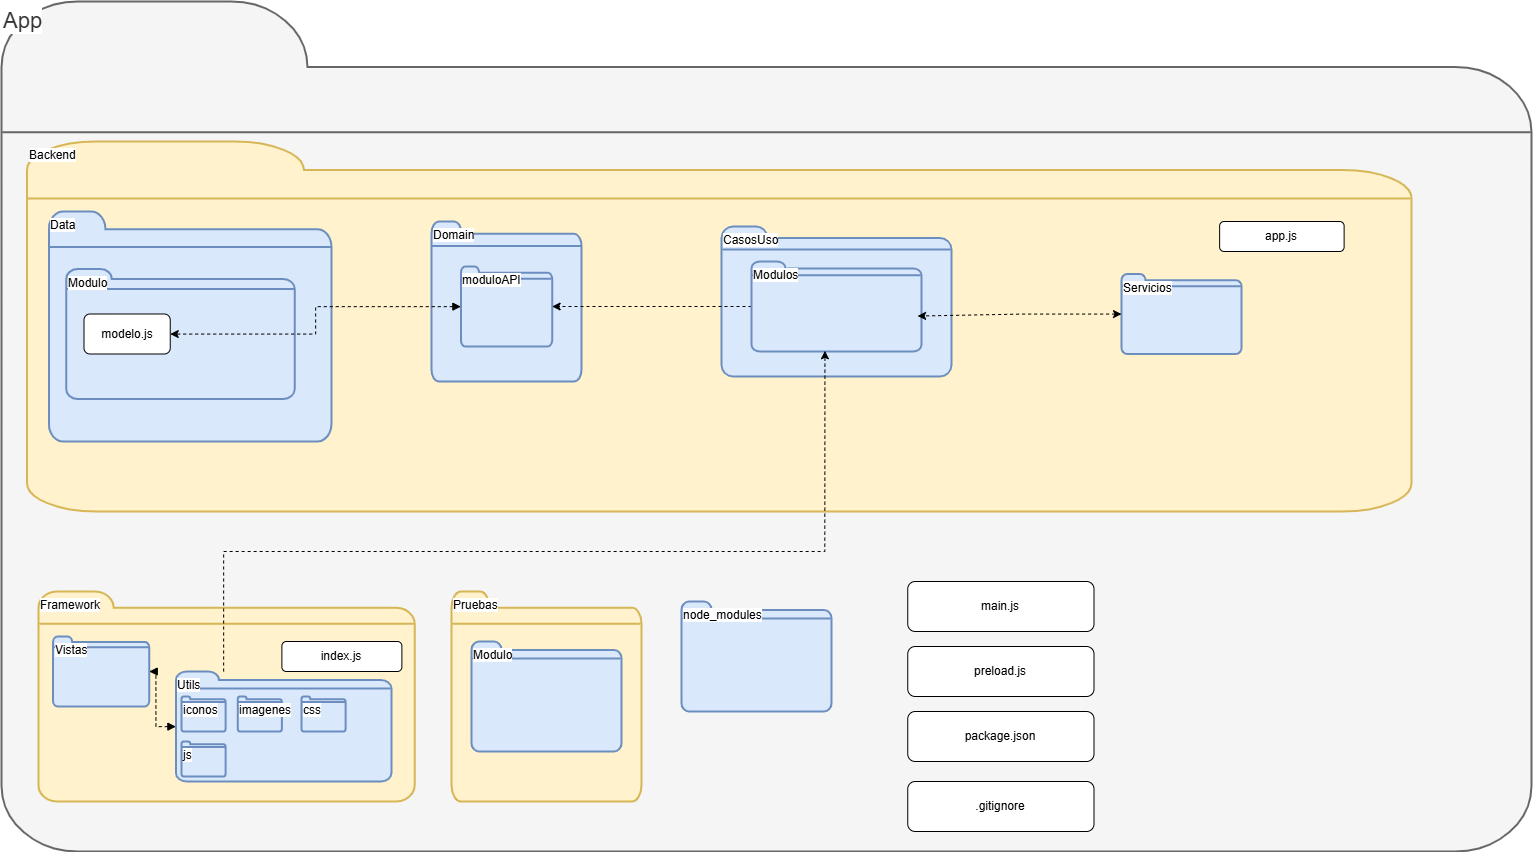
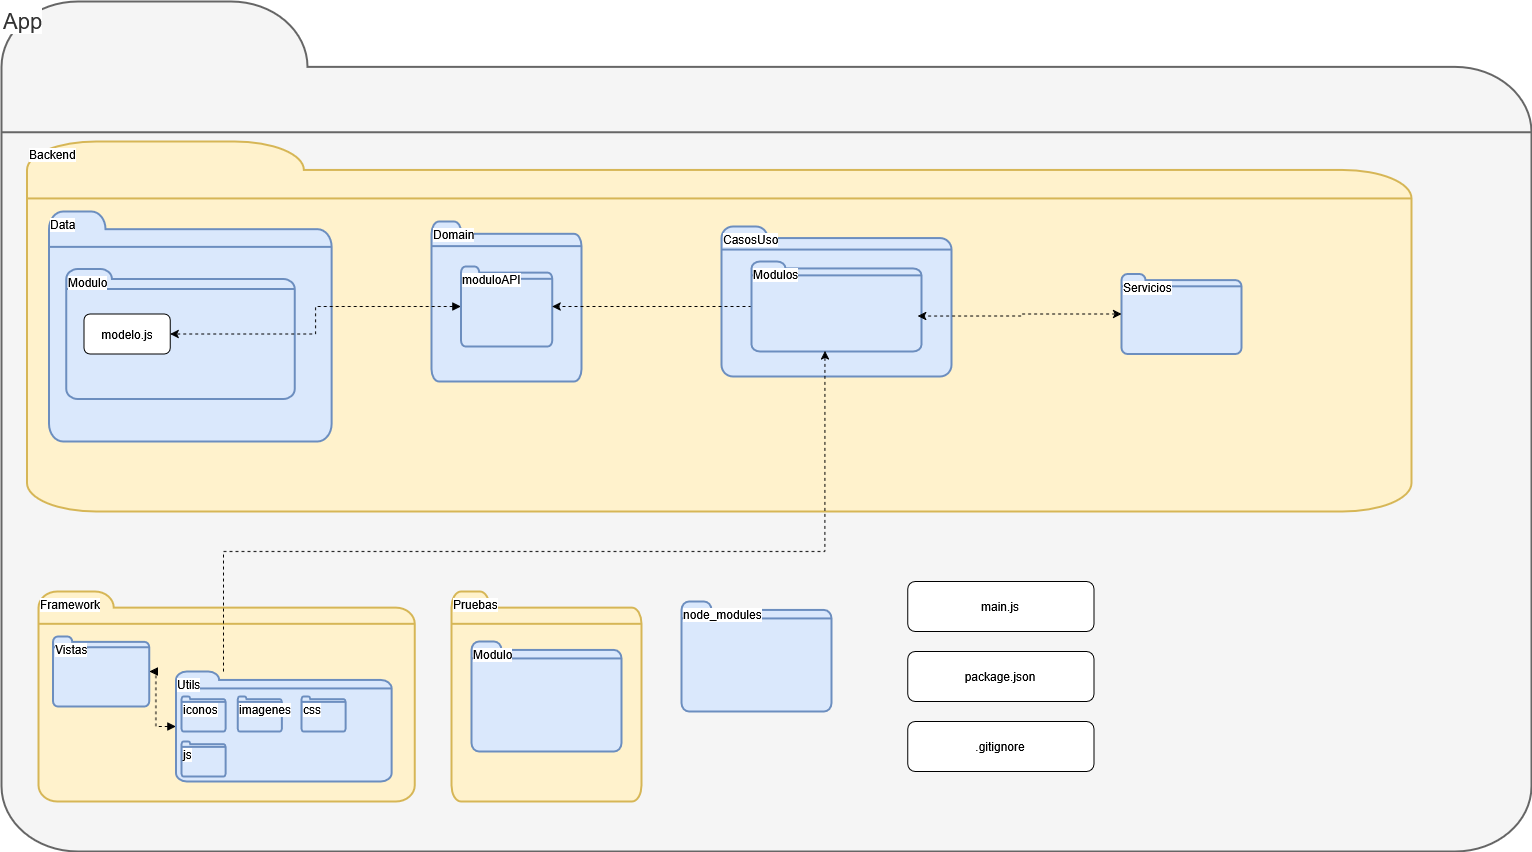
Correcciones de documentación

diff --git a/documentation/docs/proyectos/tractores/documentacion/estrategia.md b/documentation/docs/proyectos/tractores/documentacion/estrategia.md
@@ -63,7 +63,7 @@ Garantizar un software confiable a través de buenas prácticas de aseguramiento
 
 La estrategia que se seguirá para las pruebas será la siguiente:
 
-- **STP**: [Llenar la plantilla con el plan de pruebas de su proyecto]
+- **STP**: [Software Test Plan TracTech](/docs/proyectos/tractores/documentacion/stp)
 
 ---
 
@@ -136,9 +136,6 @@ Esta carpeta sigue una arquitectura basada en CLEAN.
 
 - **Servicios**: Que contendrán scripts y clases reutilizables a lo largo del proyecto
 
-- **Archivo principal**:
-
-  - **app.js**: Punto de entrada principal del backend. Su función es inicializar y configurar el servidor local de la aplicación.
 
 ### 2. Framework
 
@@ -146,8 +143,6 @@ Esta carpeta se encarga de la interfaz de usuario y la interacción con el usuar
 
 - **Vistas**: Son las interfaces que el usuario ve y con las que interactúa.
 - **Utils**: Funciones auxiliares para el comportamiento de las vistas.
-- **Archivo principal**:
-  - **index.js**: Punto de entrada de Electron.
 
 ### 3. Pruebas Unitarias
 
@@ -158,7 +153,6 @@ Cada módulo puede incluir pruebas unitarias para garantizar su correcto funcion
 Se encarga de la integración de la aplicación con ElectronJS
 
 - **main.js**: Archivo principal de Electron. Crea la ventana, gestiona eventos del sistema. Inicia Electron y conecta frontend con backend local.
-- **preload.js**: Script que se ejecuta antes de la carga de la página de electron, permitiendo la comunicación entre el frontend y el backend de manera segura.
 
 ---
 
@@ -170,3 +164,4 @@ Se encarga de la integración de la aplicación con ElectronJS
 | **2.0**             | Se hizo el cambio del diagrama de paquetes de la aplicación local en electron | 25/03/2025   | Ian Julián Estrada Castro |
 | **2.1**             | Se quitó ViewModels del diagrama de paquetes. Se actualizó diagrama de backend desacoplado. Se cambió a español | 27/03/2025 | Ian Julián Estrada Castro |
 | **2.2** | Se actualizó el diagrama de paquetes de electron y su explicación | 25/04/2025 | Daniel Contreras |
+| **2.3** | Se actualizó el diagrama de paquetes de electron y componentes | 13/05/2025 | Daniel Queijeiro |

diff --git a/documentation/docs/proyectos/tractores/definicion-ready-tractores.md b/documentation/docs/proyectos/tractores/definicion-ready-tractores.md
@@ -24,8 +24,8 @@ El equipo de Tractech utilizó una escala diferente para calcular el tamaño de 
 - Las dependencias de la historia de usuario deben estar registradas en el **Mapa de Dependencias** (por añadir).
 - La historia no debe estar bloqueada por una dependencia o por otra historia de usuario que no se haya realizado aún.
 - La historia debe contar con diagramas si aplica:
-  - Si es una historia de **5 o más puntos**, se debe incluir un **diagrama de secuencia**.
-  - Si es una historia de **5 o más puntos** y el usuario interactúa con la interfaz, se debe incluir un **diagrama de secuencia**.
+  - Si es una historia de **8 o más puntos**, se debe incluir un **diagrama de secuencia**.
+  - Si es una historia de **8 o más puntos** y el usuario interactúa con la interfaz, se debe incluir un **diagrama de secuencia**.
 - La historia debe contar con su **wireframe o mockup** de interfaz.
 
 ---
@@ -36,3 +36,5 @@ El equipo de Tractech utilizó una escala diferente para calcular el tamaño de 
 |---------------------|------------------------------------| ---------- | ---------------------- |
 | **1.0**             | Primera versión de definición de Ready para TracTech | 08/03/2025 | Diego Ricardo Alfaro Pinto <br/> Juan Pablo Chávez Leal |
 | **1.1**             | Eliminación de responsable para cada historia de usuario y adicción de Mapa de Dependencias | 05/05/2025 | Rommel Toledo Crespo |
+| **1.1**             | Eliminación de responsable para cada historia de usuario y adicción de Mapa de Dependencias | 05/05/2025 | Rommel Toledo Crespo |
+| **1.2**             | Arreglar cantidad de puntos para tener diagrama de secuencia | 13/05/2025 | Daniel Queijeiro |

diff --git a/documentation/docs/proyectos/tractores/documentacion/arquitectura.md b/documentation/docs/proyectos/tractores/documentacion/arquitectura.md
@@ -16,8 +16,7 @@ Arquitectura basada en servicios en la nube con API REST en NodeJS y frontend ba
 La arquitectura se compone de capas principales:
 
 - **Frontend** (Electron + HTML, CSS, JavaScript)
-- **Backend** (Node.JS + Express + AWS EC2)
-- **Servicios AWS** (DynamoDB)
+- **Backend** (Node.JS + Express + AWS EC2 + MySQL)
 
 ---
 
@@ -47,8 +46,8 @@ Agregar las características del frontend de su proyecto.
   - Interpretación de datos
   - Control de acceso según el rol del usuario
   - Carga de gráficas
-- **Selección de ranchos y tractores**
-  - Panel para la selección de ranchos y tractores a analizar
+- **Selección de distribuidores y tractores**
+  - Panel para la selección de distribuidores y tractores a analizar
   - Opciones múltiples para tractores
 - **Selección de plantillas**
   - Panel para la selección de plantillas
@@ -58,7 +57,6 @@ Agregar las características del frontend de su proyecto.
   - Definición de frecuencia de envío
   - Definición de cantidad envíos
 - **Perfil de usuario**
-  - Foto del usuario
   - Nombre
   - Cerrar sesión
 - **Gestión de usuarios**
@@ -177,3 +175,4 @@ graph TD
 | **2.0**             | Adición del diagrama de despliegue | 25/03/2025   | Juan Pablo Chávez Leal |
 | **2.1**             | Corrección al diagrama de despliegue | 04/04/2025 | Ian Julián Estrada Castro |
 | **2.2**             | Corrección de una palabra | 08/05/2025 | Rommel Toledo C. |
+| **3.0**             | Eliminar servicios de AWS | 13/05/2025 | Daniel Queijeiro |

diff --git a/documentation/docs/proyectos/tractores/documentacion/procesos.md b/documentation/docs/proyectos/tractores/documentacion/procesos.md
@@ -13,17 +13,15 @@ graph LR;
     Distribuidor-->Vendedor;
     Vendedor-->Cliente;
 ```
-## Generación de reportes plataforma nacional (TLExplore)
+## Generación de reportes plataforma nacional
 
 ```mermaid
 graph LR;
-    Quitan_los_vínculos --> Descargan_excel_desde_TLExplore;
-    Descargan_excel_desde_TLExplore --> Se_eliminan_columnas_de_adc_batería_comentarios_y_gps;
+    Quitan_los_vínculos --> Descargan_excel;
+    Descargan_excel --> Se_eliminan_columnas_de_adc_batería_comentarios_y_gps;
     Se_eliminan_columnas_de_adc_batería_comentarios_y_gps --> Aplican_un_diseño;
     Aplican_un_diseño --> Agregan_columnas_de_actividad_y_ubicación;
     Agregan_columnas_de_actividad_y_ubicación --> Aplican_formato_condicional_para_columna_status;
 ```
 
 ## Generación de alertas CNH
-
-## Generación de alertas TLExplore
